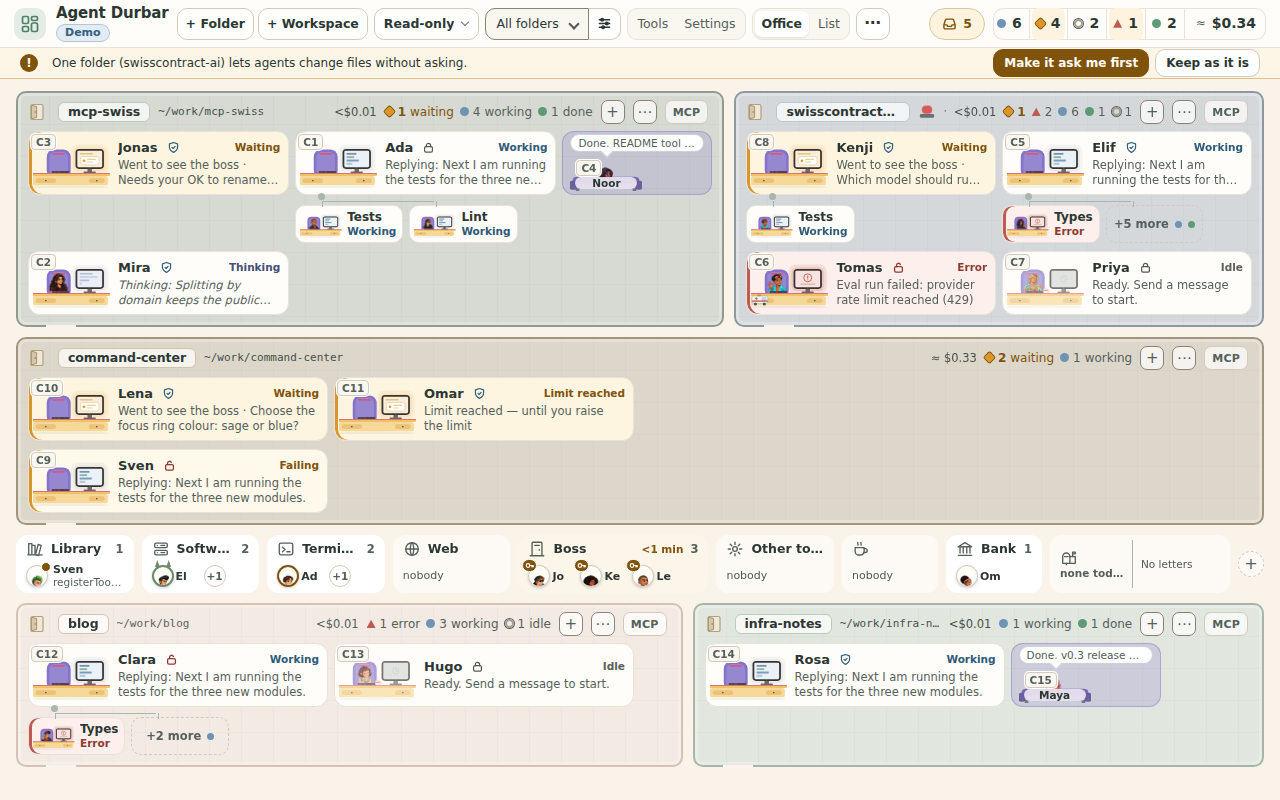
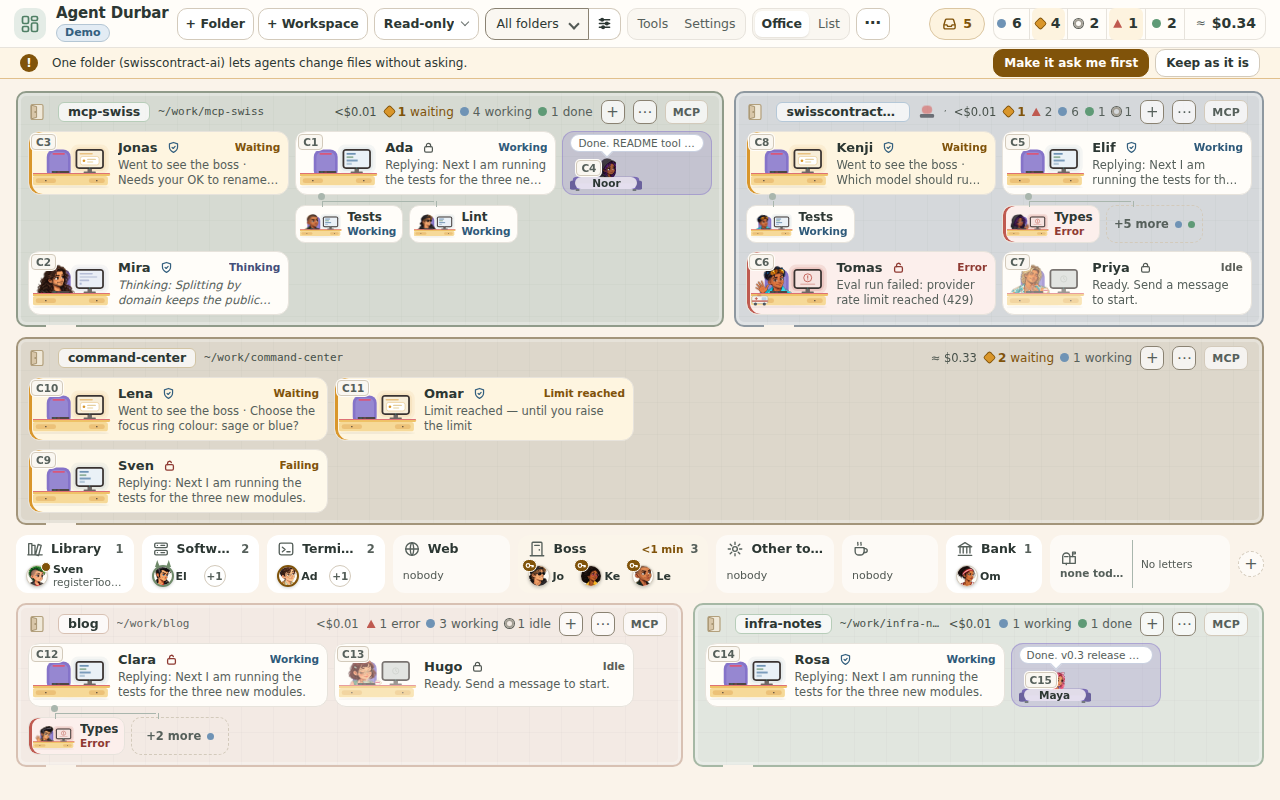
077: round 2: face crops per use, seat bust, desk portrait box doubled to 88 (FR-060), face-visibility checks
Claude-Session: https://claude.ai/code/session_01Mj63agcLftbxvrSoGqM1Fp

diff --git a/scripts/check-crew.js b/scripts/check-crew.js
@@ -23,6 +23,8 @@ const { helpers, jsLiteral } = require('./driver-helpers');
 const ID = 'cheeky-crew';
 /* FR-014 zones in stage units: [x0, y0, x1, y1] */
 const ZONES = { 'monitor and halo': [101, 22, 187, 88], 'bubble and badge corner': [16, 3, 61, 34], 'cup zone': [96, 66, 114, 87] };
+/* FR-060: the screen's frame starts here; the portrait box ends here, so the status colour is never under it */
+const MONITOR_LEFT = 112, DESK_TOP = 86;
 
 /* in the page: every desk scene's portrait, and every other place one is drawn */
 function survey() {
@@ -40,6 +42,43 @@ function survey() {
     lounge: q('.lg-av').filter((e) => e.getClientRects().length).map((e) => [...e.querySelectorAll('image')].map(info)),
     broken: q('image').filter((i) => i.getClientRects().length && !i.getAttribute('href')).length,
   };
+}
+
+
+/* FR-060, in the page: every place a portrait is drawn, with the boxes the face must stay clear of */
+function faces() {
+  const q = (s) => [...document.querySelectorAll(s)].filter((e) => e.getClientRects().length);
+  const r = (e) => { const b = e.getBoundingClientRect(); return [b.x, b.y, b.x + b.width, b.y + b.height]; };
+  const base = (svg, use, clip, extra) => {
+    const im = svg.querySelector('image');
+    return Object.assign({ use, href: im ? im.getAttribute('href') : '', vb: (svg.getAttribute('viewBox') || '').split(/\s+/).map(Number), svg: r(svg), clip: r(clip), covers: [] }, extra);
+  };
+  const out = [];
+  for (const svg of q('#stage .desk[data-id]:not(.shut) svg.scene, #stage .helper svg.scene')) {
+    const card = svg.closest('.desk, .helper'), covers = [];
+    for (const e of card.querySelectorAll('.chatno')) if (e.getClientRects().length) covers.push(['chat badge', r(e)]);
+    const w = document.createTreeWalker(card, NodeFilter.SHOW_TEXT);
+    for (let n = w.nextNode(); n; n = w.nextNode()) {
+      const p = n.parentElement;
+      if (!n.nodeValue.trim() || p.closest('svg') || p.closest('.chatno') || !p.getClientRects().length) continue;
+      covers.push(['card text', r(p)]);
+    }
+    const mon = svg.querySelector('rect[x="112"][y="32"]');
+    out.push(base(svg, svg.closest('.helper') ? 'helper' : 'desk', svg, { covers, monitor: !!mon }));
+    const im = svg.querySelector('image'), kids = [...svg.children];
+    out[out.length - 1].order = im && mon ? kids.indexOf(im) < kids.indexOf(mon) : null;
+  }
+  for (const svg of q('.walker .wk svg')) out.push(base(svg, 'walker', svg.parentElement));
+  for (const svg of q('.lg-av:not(.lying) svg')) {
+    const av = svg.parentElement, couch = av.closest('.lg-couch'), sofa = couch && couch.querySelector('.lg-sofa'), name = av.parentElement.querySelector('.lg-name');
+    const covers = name ? [['name label', r(name)]] : [];
+    for (const e of av.parentElement.querySelectorAll('.chatno')) if (e.getClientRects().length) covers.push(['chat badge', r(e)]);
+    const x = base(svg, 'seat', av, { covers });
+    x.sofaBehind = !!sofa && !!(sofa.compareDocumentPosition(av) & Node.DOCUMENT_POSITION_FOLLOWING) && +getComputedStyle(sofa).zIndex <= (+getComputedStyle(av).zIndex || 0);
+    x.back = sofa ? r(sofa.querySelector('.sf-back')) : null;
+    out.push(x);
+  }
+  return out;
 }
 
 /* natural sizes of the portraits (in the page: an Image per file) */
@@ -61,6 +100,52 @@ module.exports = async (ctx) => {
     await H.settle();
     await H.js(`new Promise((r)=>requestAnimationFrame(()=>requestAnimationFrame(()=>r(true))))`);
     await ctx.sleep(250);
+  };
+
+  /* FR-060: for each use at this size, the drawn face box is inside what is visible, and the things that must stay readable are not on it */
+  const faceChecks = async (tag) => {
+    const list = await H.js(`(${faces.toString()})()`);
+    const uses = {};
+    for (const f of list) {
+      if (!f.href) continue; // the plain figure (fallback) has no picture
+      const m = /crew\/art\/([\w-]+)-(working|waiting|resting)\.webp/.exec(f.href);
+      assert.ok(m, `${tag}: ${f.use}: a crew picture (${f.href})`);
+      const [id, pose] = [m[1], m[2]];
+      const fb = C.faceBox(id, pose); // stage units
+      const [vx, vy, vw, vh] = f.vb, R = f.svg;
+      const sc = Math.min((R[2] - R[0]) / vw, (R[3] - R[1]) / vh), ox = R[0] + ((R[2] - R[0]) - vw * sc) / 2, oy = R[1] + ((R[3] - R[1]) - vh * sc) / 2;
+      const px = [ox + (fb[0] - vx) * sc, oy + (fb[1] - vy) * sc, ox + (fb[0] + fb[2] - vx) * sc, oy + (fb[1] + fb[3] - vy) * sc];
+      const where = `${tag} ${f.use} ${id}-${pose}`;
+      uses[f.use] = (uses[f.use] || 0) + 1;
+      // inside the visible clip: the view box, the element's own box
+      const eps = 0.75;
+      assert.ok(fb[0] >= vx - 1e-6 && fb[1] >= vy - 1e-6 && fb[0] + fb[2] <= vx + vw + 1e-6 && fb[1] + fb[3] <= vy + vh + 1e-6, `${where}: the face box ${fb.map((n) => +n.toFixed(1))} is inside the view box ${f.vb}`);
+      assert.ok(px[0] >= f.clip[0] - eps && px[1] >= f.clip[1] - eps && px[2] <= f.clip[2] + eps && px[3] <= f.clip[3] + eps, `${where}: the face box ${px.map(Math.round)} is inside the visible clip ${f.clip.map(Math.round)}`);
+      if (f.use === 'walker') { // a round clip: the four corners of the face box are inside the circle
+        const cx = (f.clip[0] + f.clip[2]) / 2, cy = (f.clip[1] + f.clip[3]) / 2, rad = Math.min(f.clip[2] - f.clip[0], f.clip[3] - f.clip[1]) / 2;
+        for (const [x, y] of [[px[0], px[1]], [px[2], px[1]], [px[0], px[3]], [px[2], px[3]]]) assert.ok(Math.hypot(x - cx, y - cy) <= rad + 0.5, `${where}: a corner of the face box is outside the round avatar`);
+        assert.ok((px[2] - px[0]) >= 0.35 * (f.clip[2] - f.clip[0]), `${where}: the face fills the circle (${Math.round(px[2] - px[0])} of ${Math.round(f.clip[2] - f.clip[0])} px)`);
+      }
+      if (f.use === 'desk' || f.use === 'helper') {
+        assert.ok(f.order === true, `${where}: the portrait is drawn before (under) the monitor and the desk`);
+        assert.ok(fb[0] + fb[2] <= MONITOR_LEFT && fb[1] + fb[3] <= DESK_TOP, `${where}: the face is left of the monitor and its chin above the desk top`);
+        for (const [name, z] of Object.entries(ZONES)) assert.ok(!hit([fb[0], fb[1], fb[0] + fb[2], fb[1] + fb[3]], z), `${where}: the face keeps clear of the ${name}`);
+      }
+      // a seat is small (about 38 px) and its chat-number badge sits on its top-left corner by design (spec 074): there the eyes-and-nose
+      // core of the face box (its middle half) must be clear of the badge; everywhere else the whole face box must be
+      for (const [name, c] of f.covers) {
+        if (f.use === 'seat' && name === 'chat badge' && f.clip[2] - f.clip[0] < 30) continue; // a 20 px seat (1280x800) is smaller than its own number badge, whatever the picture
+        const core = f.use === 'seat' && name === 'chat badge' ? [px[0] + 0.25 * (px[2] - px[0]), px[1] + 0.25 * (px[3] - px[1]), px[2] - 0.25 * (px[2] - px[0]), px[3] - 0.25 * (px[3] - px[1])] : px;
+        const dx = Math.min(core[2], c[2]) - Math.max(core[0], c[0]), dy = Math.min(core[3], c[3]) - Math.max(core[1], c[1]); // overlap depth, 1.5 px of sub-pixel slack
+        assert.ok(!(dx > 1.5 && dy > 1.5), `${where}: the face box ${core.map(Math.round)} is not under the ${name} ${c.map(Math.round)}`);
+      }
+      if (f.use === 'seat') {
+        assert.ok(f.sofaBehind, `${where}: the couch is drawn behind the figure, its back does not cover the face`);
+        assert.ok(px[1] >= f.clip[1] - eps, `${where}: the head is not cut at the top`);
+      }
+    }
+    for (const u of ['desk', 'helper', 'walker', 'seat']) assert.ok(uses[u] >= 1, `${tag}: a ${u} portrait is on screen to check (${JSON.stringify(uses)})`);
+    console.log(`[crew] ${tag} faces`, JSON.stringify(uses));
   };
   const sizes = async () => Object.fromEntries((await H.js(naturals(C.files()))).map(([f, w, h]) => [f, [w, h]]));
   const sharpOk = (tag, img, nat) => {
@@ -86,10 +171,11 @@ module.exports = async (ctx) => {
       assert.strictEqual(im.href, C.file(id, C.poseFor(sc.st)), `${tag}: scene ${i} (${sc.st}) shows the ${C.poseFor(sc.st)} pose of ${id}`);
       assert.deepStrictEqual([im.x, im.y, im.w, im.h], [C.BOX.x, C.BOX.y, C.BOX.w, C.BOX.h], `${tag}: scene ${i}: the portrait's fixed box`);
       const box = [im.x, im.y, im.x + im.w, im.y + im.h];
-      for (const [name, z] of Object.entries(ZONES)) assert.ok(!hit(box, z), `${tag}: scene ${i}: the portrait box ${box} keeps clear of the ${name} ${z} (FR-014)`);
+      assert.ok(box[2] <= MONITOR_LEFT, `${tag}: scene ${i}: the portrait box ${box} ends before the monitor frame (x ${MONITOR_LEFT}), so the status colour is not covered`);
       assert.ok(!sc.plain, `${tag}: scene ${i}: no plain figure under a portrait`);
       sharpOk(`${tag} scene ${i}`, im, nat[im.href]);
     }
+    await faceChecks(tag);
     assert.ok(seen.size === C.IDS.length, `${tag}: all ${C.IDS.length} characters on screen with 15 agents (least-used pick) (${[...seen]})`);
     for (const [kind, list] of [['walker', s.walkers], ['chip', s.chips], ['lounge figure', s.lounge]]) for (const [i, imgs] of list.entries()) {
       assert.strictEqual(imgs.length, 1, `${tag}: ${kind} ${i} draws the portrait`);

diff --git a/src/renderer/crew.js b/src/renderer/crew.js
@@ -10,19 +10,53 @@
   /* the characters, in a fixed order (a new one is appended, so the old ones never move); the 13 of spec 077 (the old order's three are kept, a stored id that no longer exists is dropped by loadCrew) */
   const IDS = ['punk', 'gamer', 'hacker', 'rocker', 'buzzcut', 'bookworm', 'scientist', 'metalhead', 'bob-glasses', 'skater', 'surfer', 'disco', 'sporty'];
   const MAX_ENTRIES = 500, MAX_ID = 200;
-  /* the portraits (spec 077 FR-050..FR-055, FR-059): three poses per character, `crew/art/<id>-<pose>.webp`, 352x352 and square, drawn in a
-     fixed square box of the 200x124 stage. The box (x 52-96, y 42-86) keeps clear of the monitor and halo, the thought bubble and badge
-     corner and the cup zone (FR-014); its bottom edge meets the desk top, and the laptop is drawn after it. 8 pixels per stage unit. The
-     art carries the hands (waving, holding a mug), so the code draws no arms over it (FR-059). */
+  /* the portraits (spec 077 FR-050..FR-055, FR-059, FR-060): three poses per character, `crew/art/<id>-<pose>.webp`, 352x352 and square, drawn
+     in a fixed square box of the 200x124 stage: 88x88 units at x 24, y 22 (twice the first build's, owner 2026-10-23). Its right edge is the
+     monitor's left edge (x 112), so the screen's status colour is never covered (the monitor is drawn after it anyway); the thought bubble
+     and badge corner are drawn over its top-left; the chin of every picture stays above the desk top (y 86), which hides the lower
+     bust. 4 pixels per stage unit. The art carries the hands (waving, holding a mug), so the code draws no arms over it. */
+  const has = (o, key) => Object.prototype.hasOwnProperty.call(o, key);
   const POSES = ['working', 'waiting', 'resting'];
-  const BOX = { x: 52, y: 42, w: 44, h: 44 }, PX_PER_UNIT = 8;
+  const BOX = { x: 24, y: 22, w: 88, h: 88 }, PX_PER_UNIT = 4, PIC = 352;
+  /* FR-060: where the face is in each picture, in picture pixels [centre x, centre y], found once from the alpha channel and the head
+     position (a one-off script, numbers only). A round avatar crops a FACE_CROP square around it; the face box (what must stay visible, in
+     the driver) is FACE_W x FACE_H around it. The 13 characters differ (the afro, the mohawk and the hood are tall), so one crop would not fit. */
+  const FACE_CROP = 235, FACE_W = 110, FACE_H = 140;
+  const FACE = {
+    punk: { working: [180, 160], waiting: [165, 160], resting: [194, 160] },
+    gamer: { working: [176, 160], waiting: [164, 160], resting: [170, 160] },
+    hacker: { working: [180, 170], waiting: [165, 170], resting: [171, 170] },
+    rocker: { working: [188, 155], waiting: [191, 155], resting: [192, 155] },
+    buzzcut: { working: [178, 150], waiting: [174, 150], resting: [164, 150] },
+    bookworm: { working: [177, 155], waiting: [168, 155], resting: [166, 155] },
+    scientist: { working: [166, 150], waiting: [180, 150], resting: [160, 150] },
+    metalhead: { working: [178, 150], waiting: [165, 150], resting: [177, 150] },
+    'bob-glasses': { working: [179, 150], waiting: [168, 150], resting: [179, 150] },
+    skater: { working: [195, 140], waiting: [225, 140], resting: [198, 140] },
+    surfer: { working: [174, 135], waiting: [193, 135], resting: [190, 135] },
+    disco: { working: [172, 150], waiting: [184, 150], resting: [173, 150] },
+    sporty: { working: [172, 155], waiting: [170, 155], resting: [166, 155] },
+  };
+  const k = BOX.w / PIC;
+  /* a face box or the avatar's crop, in stage units: [x, y, w, h]; null for an unknown picture */
+  const facePoint = (id, pose) => (has(FACE, id) && has(FACE[id], pose)) ? FACE[id][pose] : null;
+  function faceBox(id, pose) { const f = facePoint(id, pose); return f ? [BOX.x + (f[0] - FACE_W / 2) * k, BOX.y + (f[1] - FACE_H / 2) * k, FACE_W * k, FACE_H * k] : null; }
+  /* the view box of a round avatar (chip, walker, chat header, inbox): the face fills the circle; of a seat on a couch: the bust from its top edge (FR-060) */
+  function viewBox(id, pose, use) {
+    const f = facePoint(id, pose); if (!f) return null;
+    if (use === 'seat') { // from the top of the picture (no hair or hood cut), 3/4 of its width, the face right of centre (the chat badge sits on the seat's top-left corner); the crop may start left of the picture (empty)
+      const n = BOX.w * 0.75, x = Math.min(BOX.x + f[0] * k - n * 0.62, BOX.x + BOX.w - n);
+      return [x, BOX.y, n, n].map((v) => Math.round(v * 100) / 100).join(' ');
+    }
+    const n = FACE_CROP * k;
+    return [BOX.x + f[0] * k - n / 2, BOX.y + f[1] * k - n / 2, n, n].map((v) => Math.round(v * 100) / 100).join(' ');
+  }
   /* the pose for a status: working and thinking type, waiting and error need the person, the rest rests */
   const poseFor = (st) => (st === 'working' || st === 'thinking' || st === 'avatar') ? 'working' : (st === 'waiting' || st === 'error') ? 'waiting' : 'resting';
   const file = (id, pose) => 'crew/art/' + id + '-' + pose + '.webp';
   const files = (ids) => (ids || IDS).reduce((a, id) => a.concat(POSES.map((p) => file(id, p))), []);
   /* FR-055: a character can be drawn when it is known and none of its pictures failed to load (`bad`: a Set of character ids) */
   const usable = (id, bad) => typeof id === 'string' && IDS.includes(id) && !(bad && bad.has && bad.has(id));
-  const has = (o, k) => Object.prototype.hasOwnProperty.call(o, k);
 
   /* a small repeatable random source from a string (the session id): FNV-1a into mulberry32 */
   function seeded(str) {
@@ -84,5 +118,5 @@
     return out;
   }
 
-  return { POSES, BOX, PX_PER_UNIT, poseFor, file, files, usable, IDS, MAX_ENTRIES, MAX_ID, seeded, seededRand, pickCharacter, assignCrew, pruneCrew, loadCrew };
+  return { POSES, BOX, PX_PER_UNIT, FACE, FACE_W, FACE_H, FACE_CROP, faceBox, viewBox, poseFor, file, files, usable, IDS, MAX_ENTRIES, MAX_ID, seeded, seededRand, pickCharacter, assignCrew, pruneCrew, loadCrew };
 })());

diff --git a/scripts/test-crew.ts b/scripts/test-crew.ts
@@ -11,7 +11,7 @@ const C = require(path.join(__dirname, '..', '..', 'src', 'renderer', 'crew.js')
   assignCrew: (m: Record<string, string>, ids: string[], chars: string[], rand?: (id: string) => number) => Record<string, string>;
   pruneCrew: (m: Record<string, string>, ids: string[]) => Record<string, string>;
   loadCrew: (j: unknown, ids?: string[]) => Record<string, string>;
-  POSES: string[]; BOX: { x: number; y: number; w: number; h: number };
+  POSES: string[]; BOX: { x: number; y: number; w: number; h: number }; PX_PER_UNIT: number; FACE: Record<string, Record<string, number[]>>; FACE_W: number; FACE_H: number; faceBox: (id: string, pose: string) => number[] | null; viewBox: (id: string, pose: string, use?: string) => string | null;
   poseFor: (st: string) => string; file: (id: string, pose: string) => string; files: (ids?: string[]) => string[]; usable: (id: unknown, bad?: Set<string>) => boolean;
 };
 
@@ -97,11 +97,31 @@ assert.ok(C.files(['punk']).every((f) => f.startsWith('crew/art/punk-')));
 assert.ok(C.usable('punk') && C.usable('punk', new Set(['gamer'])), 'a known character with no failed picture');
 assert.ok(!C.usable('punk', new Set(['punk'])), 'a character with a failed picture is not usable');
 assert.ok(!C.usable('nope') && !C.usable('') && !C.usable(undefined) && !C.usable('__proto__') && !C.usable('constructor'), 'unknown ids are not usable');
-// the box keeps clear of the monitor and halo (x 101-187), the bubble and badge corner (x 16-61, y 3-34) and the cup zone (x 96-114, y 66-87), FR-014
+// FR-014 / FR-060: the portrait box is 88x88 at x 24, y 22 (twice the first build's); it ends where the monitor's frame starts (x 112), so the screen's colour is never under it
+assert.deepStrictEqual(C.BOX, { x: 24, y: 22, w: 88, h: 88 }, 'the desk portrait box');
 assert.strictEqual(C.BOX.w, C.BOX.h, 'the box is square, like the 352x352 art (FR-059)');
-assert.ok(C.BOX.x + C.BOX.w <= 96, 'the box ends before the cup zone and the monitor');
-assert.ok(C.BOX.y >= 34, 'the box starts under the bubble and badge corner');
-assert.ok(C.BOX.y + C.BOX.h <= 86, 'the box ends at the desk top');
+assert.ok(C.BOX.x + C.BOX.w <= 112, 'the box ends before the monitor');
+assert.strictEqual(C.BOX.w * C.PX_PER_UNIT, 352, 'the art is 4 pixels per stage unit');
+// FR-060: every picture has a face point, and its face box is inside the picture, clear of the monitor and the badge corner and above the desk top (y 86)
+for (const id of C.IDS) for (const pose of C.POSES) {
+  const b = C.faceBox(id, pose);
+  assert.ok(b, id + '-' + pose + ' has a face box');
+  const [x, y, w, h] = b as number[];
+  assert.ok(x >= C.BOX.x && x + w <= C.BOX.x + C.BOX.w && y >= C.BOX.y && y + h <= C.BOX.y + C.BOX.h, id + '-' + pose + ': the face is inside its picture');
+  assert.ok(x + w <= 112, id + '-' + pose + ': the face is left of the monitor');
+  assert.ok(y >= 34, id + '-' + pose + ': the face is under the thought bubble and badge corner');
+  assert.ok(y + h <= 86, id + '-' + pose + ': the chin is above the desk top, which hides the lower bust');
+  const vb = (C.viewBox(id, pose, 'face') as string).split(' ').map(Number);
+  assert.ok(vb[0] >= C.BOX.x && vb[1] >= C.BOX.y && vb[0] + vb[2] <= C.BOX.x + C.BOX.w && vb[1] + vb[3] <= C.BOX.y + C.BOX.h, id + '-' + pose + ': the avatar crop is inside the picture');
+  assert.ok(vb[0] + vb[2] / 2 > x && vb[0] + vb[2] / 2 < x + w, id + '-' + pose + ': the avatar crop is centred on the face');
+}
+for (const id of C.IDS) for (const pose of C.POSES) {
+  const sv = (C.viewBox(id, pose, 'seat') as string).split(' ').map(Number), [fx, fy, fw, fh] = C.faceBox(id, pose) as number[];
+  assert.ok(sv[1] === C.BOX.y && sv[0] + sv[2] <= C.BOX.x + C.BOX.w, id + '-' + pose + ': a seat shows the picture from its top edge, not past its right edge');
+  assert.ok(fx >= sv[0] && fx + fw <= sv[0] + sv[2] && fy + fh <= sv[1] + sv[3], id + '-' + pose + ': the whole face box is in the seat crop');
+}
+assert.strictEqual(C.viewBox('nope', 'working', 'face'), null, 'an unknown character has no crop');
+assert.deepStrictEqual(Object.keys(C.FACE).sort(), [...C.IDS].sort(), 'a face table row per character');
 // a stored id that no longer exists (an old placeholder-only id) is dropped, and the session gets a new character
 {
   const stored = C.loadCrew({ s1: 'nerd', s2: 'surfer', s3: 'metal' });

diff --git a/src/renderer/app.js b/src/renderer/app.js
@@ -692,10 +692,10 @@ function scene(a,mini,c){
 }
 /* spec 052 FR-069: Serious mode draws full scenes without the SMIL wave; a mark in the signature redraws them when it is switched */
 function stillSig(svg){return SERIOUS?svg.replace(' data-sig="',' data-sig="still|'):svg;}
-function avatar(a){
+function avatar(a,view){
   const k=themedLook(a.look);
   const kit=THEME.sceneKit();
-  if(kit!=='office'&&window.DurbarScenes){const v=window.DurbarScenes.avatar(kit,a,{k,T:T_,shade,reduced:REDUCED,art:kitArt(),crew:kit==='crew'?crewOf(a):'',crewFb:kit==='crew'&&CREW_BAD.has(crewOf(a))});if(v)return v;}
+  if(kit!=='office'&&window.DurbarScenes){const v=window.DurbarScenes.avatar(kit,a,{k,T:T_,shade,reduced:REDUCED,art:kitArt(),crew:kit==='crew'?crewOf(a):'',crewFb:kit==='crew'&&CREW_BAD.has(crewOf(a)),view});if(v)return v;}
   return `<svg viewBox="50 20 48 48" width="100%" height="100%" aria-hidden="true" focusable="false">${k.style==='long'?`<path d="M59.5 44a14.5 14.5 0 0 1 29 0v19q0 4-4 4h-21q-4 0-4-4z" fill="${k.hair}"/>`:''}<path d="M55 99V77q0-14 14-14h10q14 0 14 14v22z" fill="${k.shirt}"/><rect x="70" y="53" width="8" height="10" rx="3" fill="${shade(k.skin,-.08)}"/>${charArt('body')}<circle cx="74" cy="44" r="12.5" fill="${k.skin}"/>${hairFront(k.style,k.hair)}${charArt('head')}<circle cx="71.7" cy="45.4" r="1.35" fill="${T_('--face-dark')}"/><circle cx="79.7" cy="45.4" r="1.35" fill="${T_('--face-dark')}"/><path d="M71 51.6q3 2 6 0" fill="none" stroke="${T_('--mouth')}" stroke-width="1.3" stroke-linecap="round"/></svg>`;
 }
 const PLANT=()=>'<svg class="room-plant" width="26" height="30" viewBox="0 0 26 30" aria-hidden="true" focusable="false">'+THEME.slot('plant')+'</svg>';
@@ -964,7 +964,7 @@ function restHTML(x,i){
   const lab=`${esc(a.name)}${chatNoWords(a)}, ${esc(who)}, folder ${esc(roomOf(a).path)}, ${where}, ${st==='done'?'finished':'idle after its reply'}${said?' '+esc(said):''}: ${esc(line)}${/[.!?…]$/.test(line)?'':'.'} Open chat panel.`; /* every part escaped here */
   const peek=`<span class="peek" aria-hidden="true"><span class="pk-h"><b>${esc(a.name)}</b><span class="pk-role">${esc(who)}</span></span><span class="pk-st">${SHUT_MARK}${esc(stWord(a))}${ago?' · finished '+esc(ago):''} · ${where}</span><span class="pk-tx">${esc(shutReply(a,300))}</span></span>`;
   const art=k==='recent'
-    ?`<span class="lg-av">${avatar(a)}</span>`
+    ?`<span class="lg-av"${THEME.sceneKit()==='crew'?' style="border-radius:0 0 30% 30%"':''}>${avatar(a,'seat')}</span>`
     :`<svg class="lg-bed" viewBox="0 0 44 24" preserveAspectRatio="none" aria-hidden="true" focusable="false"><rect class="bd-frame" x="1" y="10" width="42" height="11" rx="3"/><rect class="bd-head" x="1" y="3" width="5" height="18" rx="2"/><rect class="bd-mat" x="5" y="8" width="37" height="6" rx="2.5"/><rect class="bd-pil" x="6" y="5" width="10" height="5" rx="2.5"/><rect class="bd-leg" x="3" y="20" width="3" height="4"/><rect class="bd-leg" x="38" y="20" width="3" height="4"/></svg><span class="lg-av lying">${avatar(a)}</span><svg class="lg-blanket" viewBox="0 0 44 24" preserveAspectRatio="none" aria-hidden="true" focusable="false"><path class="bd-blk" d="M17 6.5q12-3 25 1V14H17z"/></svg>`;
   return `<button class="desk shut is-${st} rest-${k}${roll}" type="button" data-id="${esc(a.id)}" data-state="${st}" data-rest="${k}" aria-pressed="${ui.selected===a.id}" aria-label="${lab}"><span class="lg-sp">${chatNoHTML(a)}${art}<span class="name lg-name">${esc(a.name)}</span></span>${peek}</button>`;
 }

diff --git a/scripts/test-scenekits.ts b/scripts/test-scenekits.ts
@@ -54,7 +54,7 @@ for (const kit of K.KITS.slice(1)) {
   assert.ok(/stroke-width="1\.1"><circle/.test(plain), 'the fallback figure keeps the agent\'s own glasses (FR-017: the office figure with the agent\'s look)');
   for (const [st, pose] of [['working', 'working'], ['thinking', 'working'], ['waiting', 'waiting'], ['error', 'waiting'], ['idle', 'resting'], ['done', 'resting']]) {
     const svg: string = K.draw('crew', { id: 'c1' }, { ...base, st, crew: 'punk' });
-    assert.ok(svg.includes(`<image class="crew-pic" href="crew/art/punk-${pose}.webp" x="52" y="42" width="44" height="44"`), `${st}: the ${pose} picture in its box`);
+    assert.ok(svg.includes(`<image class="crew-pic" href="crew/art/punk-${pose}.webp" x="24" y="22" width="88" height="88"`), `${st}: the ${pose} picture in its box`);
     assert.strictEqual((svg.match(/<image/g) || []).length, 1, st + ': one picture');
     assert.ok(/\|crew\|punk"/.test(svg), st + ': the character id ends the signature');
     assert.ok(CUE[st].test(svg) && svg.includes('class="pp"'), st + ': the status cue is still drawn over, and the person can be hidden (.pp)');
@@ -83,6 +83,14 @@ for (const kit of K.KITS.slice(1)) {
   // the walking figure: the same portrait, cropped by its view box, with no face drawn over it; the fallback has the face
   const av: string = K.avatar('crew', { id: 'c1' }, { k: base.k, T, shade, crew: 'punk' });
   assert.ok(av.includes('crew/art/punk-working.webp') && !av.includes('r="1.35"'), 'the walking figure wears the portrait');
+  // FR-060: the round avatar crops the face of the picture, a seat shows the whole bust, the fallback keeps the old crop
+  const vbOf = (svg: string) => (/viewBox="([^"]+)"/.exec(svg) || [])[1];
+  const seat: string = K.avatar('crew', { id: 'c1' }, { k: base.k, T, shade, crew: 'punk', view: 'seat' });
+  assert.ok(/^[\d.]+ 22 66 66$/.test(vbOf(seat)), 'a seat shows the top three quarters of the bust, from the top edge');
+  assert.notStrictEqual(vbOf(av), vbOf(seat), 'a chip crops the face, a seat shows more of the bust');
+  assert.ok(vbOf(av).split(' ').map(Number).every((n) => Number.isFinite(n)), 'a numeric view box');
+  assert.notStrictEqual(vbOf(K.avatar('crew', { id: 'c1' }, { k: base.k, T, shade, crew: 'gamer' })), vbOf(av), 'each character has its own face crop');
+  assert.strictEqual(vbOf(K.avatar('crew', { id: 'c1' }, { k: base.k, T, shade, crew: 'punk', crewFb: true })), '50 20 48 48', 'the plain figure keeps the old crop');
   const avFb: string = K.avatar('crew', { id: 'c1' }, { k: base.k, T, shade, crew: 'punk', crewFb: true });
   assert.ok(!avFb.includes('<image') && avFb.includes('r="1.35"'), 'and the plain face when the pictures failed');
   assert.ok(T('--crew-accent') && T('--crew-ink') && T('--crew-accent-2'), 'the crew tokens exist');

diff --git a/src/renderer/scenekits.js b/src/renderer/scenekits.js
@@ -131,7 +131,7 @@
     s += afterPerson(o);
     return s + '</svg>';
   }
-  /* the walking figure in the lobby: head and shoulders of the same kit */
+  /* the walking figure in the lobby, chips, chat header and seats: head and shoulders of the same kit (`base.view`: 'seat' for a couch) */
   function avatar(kitId, a, base) {
     const K = KIT[kitId];
     if (!K) return null;
@@ -140,7 +140,8 @@
     o.arm = o.shade(o.k.shirt, -0.14); o.skinD = o.shade(o.k.skin, -0.08); o.seed = (a && (a.id || a.name)) || o.k.shirt + o.k.hair;
     o.st = 'avatar';
     const art = artOf(o);
-    return `<svg viewBox="50 20 48 48" width="100%" height="100%"${K.crisp ? ' shape-rendering="crispEdges"' : ''} aria-hidden="true" focusable="false">${K.hairBack ? K.hairBack(o) : ''}${K.body(o)}${art.body}${K.head(o)}${K.hair(o)}${K.noFace && K.noFace(o) ? '' : face(Object.assign({}, o, { st: 'working' }), K.crisp)}${K.headTop ? K.headTop(o) : ''}${art.head}</svg>`;
+    const vb = (K.avatarView && K.avatarView(o)) || '50 20 48 48';
+    return `<svg viewBox="${vb}" width="100%" height="100%"${K.crisp ? ' shape-rendering="crispEdges"' : ''} aria-hidden="true" focusable="false">${K.hairBack ? K.hairBack(o) : ''}${K.body(o)}${art.body}${K.head(o)}${K.hair(o)}${K.noFace && K.noFace(o) ? '' : face(Object.assign({}, o, { st: 'working' }), K.crisp)}${K.headTop ? K.headTop(o) : ''}${art.head}</svg>`;
   }
 
   const KIT = {};
@@ -307,6 +308,8 @@
   KIT.crew = {
     sigExtra: (o) => (o.crew || '') + (o.crewFb ? '|fb' : ''),
     noFace: (o) => !!crewPic(o),
+    /* FR-060: the round avatars crop the face of this picture; `o.view === 'seat'` (a couch in the lounge) shows the whole bust */
+    avatarView: (o) => { const C = crewPic(o); return C ? C.viewBox(o.crew, C.poseFor(o.st), o.view) : null; },
     chair: (o) => { const ch = o.T('--chair'); return `<rect x="47" y="33" width="54" height="65" rx="17" fill="${ch}"/><rect x="53" y="39" width="42" height="53" rx="12" fill="${o.shade(ch, 0.14)}"/><rect x="60" y="41" width="28" height="4" rx="2" fill="${o.T('--crew-accent')}"/>`; },
     hairBack: (o) => !crewPic(o) && o.k.style === 'long' ? `<path d="M60 44a14 14 0 0 1 28 0v14q0 4-4 4H64q-4 0-4-4z" fill="${o.k.hair}"/>` : '',
     body: (o) => { const C = crewPic(o); if (C) { const b = C.BOX; return `<image class="crew-pic" href="${C.file(o.crew, C.poseFor(o.st))}" x="${b.x}" y="${b.y}" width="${b.w}" height="${b.h}" preserveAspectRatio="xMidYMid meet"/>`; } return `<path d="${torso(o)}" fill="${o.k.shirt}"/><path d="M69.5 63.5q4.5 5 9 0" fill="none" stroke="${o.shade(o.k.shirt, 0.35)}" stroke-width="2" stroke-linecap="round"/><rect x="70" y="53" width="8" height="10" rx="3" fill="${o.skinD}"/>`; },

diff --git a/specs/077-cheeky-crew/spec.md b/specs/077-cheeky-crew/spec.md
@@ -212,7 +212,8 @@ FR-011..FR-016 describe the drawn SVG option (b′). If Q1 picks raster, FR-050.
 ## Changes
 
 - 2026-10-23 (review of PR #577 by Vikram): Q1 reopened (it was recorded as answered); options (b′), (d) AI raster and (e) openly licensed raster with their costs; raster-only requirements FR-050..FR-058; run-time fallback FR-017 for every option; tasks marked by Q1 option; SC-004 and `check:office-fill` under raster.
-- 2026-10-23 (owner decision, Paco: wire the real art now): **FR-059** the real art replaces the placeholders. `crew.js` lists the 13 characters in this order: punk, gamer, hacker, rocker, buzzcut, bookworm, scientist, metalhead, bob-glasses, skater, surfer, disco, sporty (a stored id that is not in the list is dropped by `loadCrew` and the session gets a new character; FR-021 unchanged). The kit loads `crew/art/<id>-<pose>.webp` with the same status-to-pose map as the placeholders (working and thinking: working; waiting and error: waiting; the rest: resting). The art is **352x352 and square**, so the box is square (44x44 stage units at x 52, y 42, bottom still on the desk top y 86) at 8 pixels per unit, and `test:crew-assets` requires exactly 352x352; this supersedes the 176x200 and 44x50 box of the placeholder build. The art carries the hands (a wave, a mug), so **the code draws no arms or hands over a portrait** (this supersedes "the typing hands and the waving arm stay code" in FR-053 and the `CAST` colours; the plain-figure fallback keeps its arms). `copy-assets` ships only `src/renderer/crew/art/*.webp` (not `ASSETS.md`, `PROMPTS*`); the placeholders and `scripts/crew-placeholders.py` are removed (nothing else used them). Caps unchanged (FR-050: 40 KB per picture, 1.5 MB total; the 39 files are 1.2 MB): `surfer-waiting` and `surfer-resting` were 42.4 and 41.6 KB at q82 and were re-encoded at q80 (40.3 and 39.6 KB), the cap was not raised. `[KNOWN GAP]` macOS and Windows were not run by a person.
+- 2026-10-23 (owner decision, Paco: wire the real art now): **FR-059** the real art replaces the placeholders. `crew.js` lists the 13 characters in this order: punk, gamer, hacker, rocker, buzzcut, bookworm, scientist, metalhead, bob-glasses, skater, surfer, disco, sporty (a stored id that is not in the list is dropped by `loadCrew` and the session gets a new character; FR-021 unchanged). The kit loads `crew/art/<id>-<pose>.webp` with the same status-to-pose map as the placeholders (working and thinking: working; waiting and error: waiting; the rest: resting). The art is **352x352 and square**, so the box is square (88x88 at x 24, y 22 since FR-060, bottom behind the desk) at 4 pixels per unit, and `test:crew-assets` requires exactly 352x352; this supersedes the 176x200 and 44x50 box of the placeholder build. The art carries the hands (a wave, a mug), so **the code draws no arms or hands over a portrait** (this supersedes "the typing hands and the waving arm stay code" in FR-053 and the `CAST` colours; the plain-figure fallback keeps its arms). `copy-assets` ships only `src/renderer/crew/art/*.webp` (not `ASSETS.md`, `PROMPTS*`); the placeholders and `scripts/crew-placeholders.py` are removed (nothing else used them). Caps unchanged (FR-050: 40 KB per picture, 1.5 MB total; the 39 files are 1.2 MB): `surfer-waiting` and `surfer-resting` were 42.4 and 41.6 KB at q82 and were re-encoded at q80 (40.3 and 39.6 KB), the cap was not raised. `[KNOWN GAP]` macOS and Windows were not run by a person.
+- 2026-10-23 (owner feedback, Paco, on his Mac after 24a78ceb; **FR-060**): **one crop per use, per-picture face points.** (1) The round avatars (lobby walkers and room chips, chat header, inbox) crop the **face**: a 235-pixel square around a face point found once from each picture's alpha channel and head position, stored as numbers in `crew.js` (`FACE`, `[x, y]` per character and pose; no image analysis at run time, the one-off script is not committed), so the face fills the circle for the tall afro, mohawk and hood as for the short hair. (2) A couch seat (the lounge) shows the bust from the **top edge** of the picture (hair or hood never cut), three quarters of its width, and its square top corners are not rounded for the crew; the face is placed a little right of the crop's centre because the chat-number badge (spec 074) sits on the seat's top-left corner: the badge may cover the edge of the face box, never its middle half (eyes and nose). The seat's own size and position are the shared lounge layout (a theme may not change sizes, `check:geometry`); only the corner rounding differs (inline style). (3) The desk, the sub-agent cards and the walker's desk scene show the bust box. (4) **Desk portrait box doubled** (owner, same day, after comparing his mock): 88x88 stage units at x 24, y 22 (the first build's 44x44; the mock was about 90x90 at x 26, y 22). Why this placement: the chin of every picture must stay above the desk top (y 86), and the portrait is 88 units tall, so the top is y 22 (the mock's too); its right edge is the monitor frame's left edge (x 112), so the **monitor's status colour is never under it** (the mock overlapped the frame by about 4 units; 88 wide from x 24 avoids that with no loss, so 88 and not 90); the monitor, the thought bubble and the chat badge are drawn after the portrait, so the **badge corner and bubble stay on top** (they may cover some hair, never the face: the face box starts at y 34 or lower), and the card text is HTML beside the scene and not covered. The face box (110x140 pixels of the picture around the face point) must be inside the picture, left of the monitor, with the chin above the desk top, and clear of the badge and cup zones. (5) **Sub-agent mini-cards** (Tests, Lint, Types) draw the same 88 box in the same scene geometry, so the portrait is also twice as large in them; their slot, label and the parent card's layout are unchanged (the scene is scaled into the same `--hsw` x `--hh` box). (6) `check:crew` asserts, for desk, helper, walker and seat at 1440x900 and 1280x800, that the drawn face box is inside the visible clip, not under the chat badge (on a seat: its middle half), the card text or the seat's name label, that the walker's face corners are inside its circle and fill at least 35% of it, and that the portrait is drawn under the monitor and the couch is drawn behind the seat. This supersedes the 44x44 box of FR-059. `[KNOWN GAP]` At 1280x800 a couch seat is only 20 px, smaller than its own chat-number badge, so the badge covers it whatever the picture (the badge check is skipped below 30 px; the clip, the head-not-cut and the couch-behind checks still run). `[KNOWN GAP]` The face points are estimates read off the pictures (a few were adjusted by eye), not a face detector: a face off by a few pixels still sits inside the circle.
 
 ## Owner answers (Paco, 2026-10-23)
 

diff --git a/specs/077-cheeky-crew/tasks.md b/specs/077-cheeky-crew/tasks.md
@@ -63,3 +63,8 @@ Q2-Q8 are answered; **Q1 (art format) is open again** (2026-10-23). Tasks are ma
 - [x] T061 [raster] `copy-assets.js` ships only `crew/art/*.webp` (cleans a stale `dist/renderer/crew` first); `test:crew-assets` reads `crew/art/`, requires 352x352, the 40 KB cap and a row per file, and checks `dist/renderer/crew/art` holds exactly the pictures; the two over-cap surfer pictures re-encoded at q80; the placeholders and `crew-placeholders.py` removed [FR-050, FR-054, FR-059]
 - [x] T062 [raster] No code arms or hands over a portrait (the art has them); `test:scenekits` for 13 characters x every status, the plain figure keeps its arms; `check:crew` for 13 characters on screen, the hyphenated id and the new fallback path [FR-053, FR-059]
 - [x] T063 [raster] `check:office` in the Cheeky Crew theme at 1440x900 and 1280x800, 15 agents; screenshots `docs/screenshots/077-crew-office-*.png` [SC-001, FR-041]
+- [x] T064 [raster] Round avatars crop the face from a per-picture face table in `crew.js`; a seat shows the bust from the top edge, moved clear of the chat badge; `test:crew` (face table, crops inside the pictures, chins above the desk), `test:scenekits` (the crops per use) [FR-060]
+- [x] T065 [raster] The desk portrait box is doubled to 88x88 at x 24, y 22 (ends at the monitor frame; the sub-agent cards use the same box in the same slot); `PX_PER_UNIT` 4; the placement and its reason written in the FR-060 delta [FR-060]
+- [x] T066 [raster] `check:crew` face-visibility assertions for desk, helper, walker and seat at both sizes; mutation: the face crop set back to the whole picture fails it [FR-060]
+- [x] T067 [raster] `check:office` and `check:geometry` in the crew theme at 1440x900 and 1280x800; screenshots `docs/screenshots/077-crew-office-*.png` re-taken [SC-001]
+

diff --git a/changelog.d/077-cheeky-crew-p1.md b/changelog.d/077-cheeky-crew-p1.md
@@ -1,2 +1,3 @@
 - **Cheeky Crew theme, first build** (spec 077, experimental): a new built-in theme with its own playful desk and a portrait per session (punk, mad scientist, gamer, hooded hacker), one of three poses by status (working, waiting, resting), picked at random among the least used and kept per session. The status cues, moods and the Serious mode stay as in every theme; a missing picture falls back to the plain figure. The pictures are placeholders until the real art is added. Checked with `test:crew`, `test:crew-assets`, `test:scenekits` and `check:crew` (simulator, 1440x900 and 1280x800); macOS and Windows not run by a person.
 - **Cheeky Crew: the real art** (spec 077): the theme now has the 13 characters (punk, gamer, hacker, rocker, buzzcut, bookworm, scientist, metalhead, bob-glasses, skater, surfer, disco, sporty), each with a working, waiting and resting picture; the placeholders are gone. The art waves and holds a mug itself, so the code no longer draws hands over it. A missing picture still falls back to the plain figure. Checked with `test:crew`, `test:crew-assets`, `test:scenekits`, `check:crew` and `check:office` (simulator, 1440x900 and 1280x800); macOS and Windows not run by a person.
+- **Cheeky Crew: bigger, clearer portraits** (spec 077, owner feedback): the desk portrait is twice as large (88 units; the monitor's status colour, the badge corner and the card text stay uncovered); the round avatars (lobby, room chips, chat header) crop the face, with a per-picture face point; a couch seat shows head and shoulders with the hair or hood uncut. Checked with `check:crew` (face visible for desk, helper, walker and seat at 1440x900 and 1280x800).
